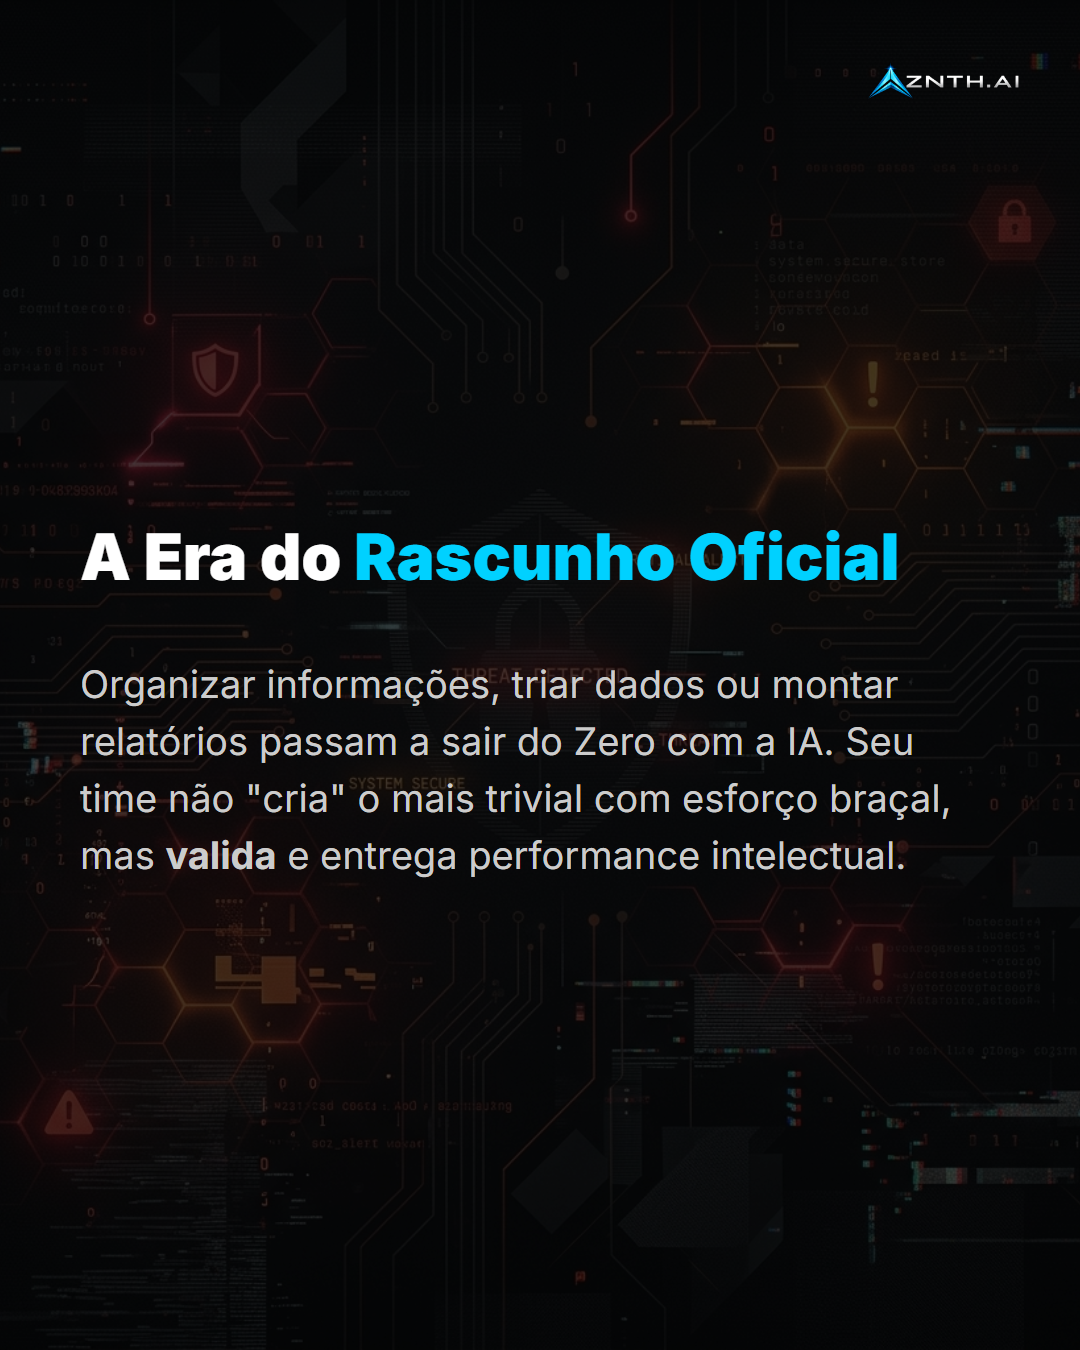
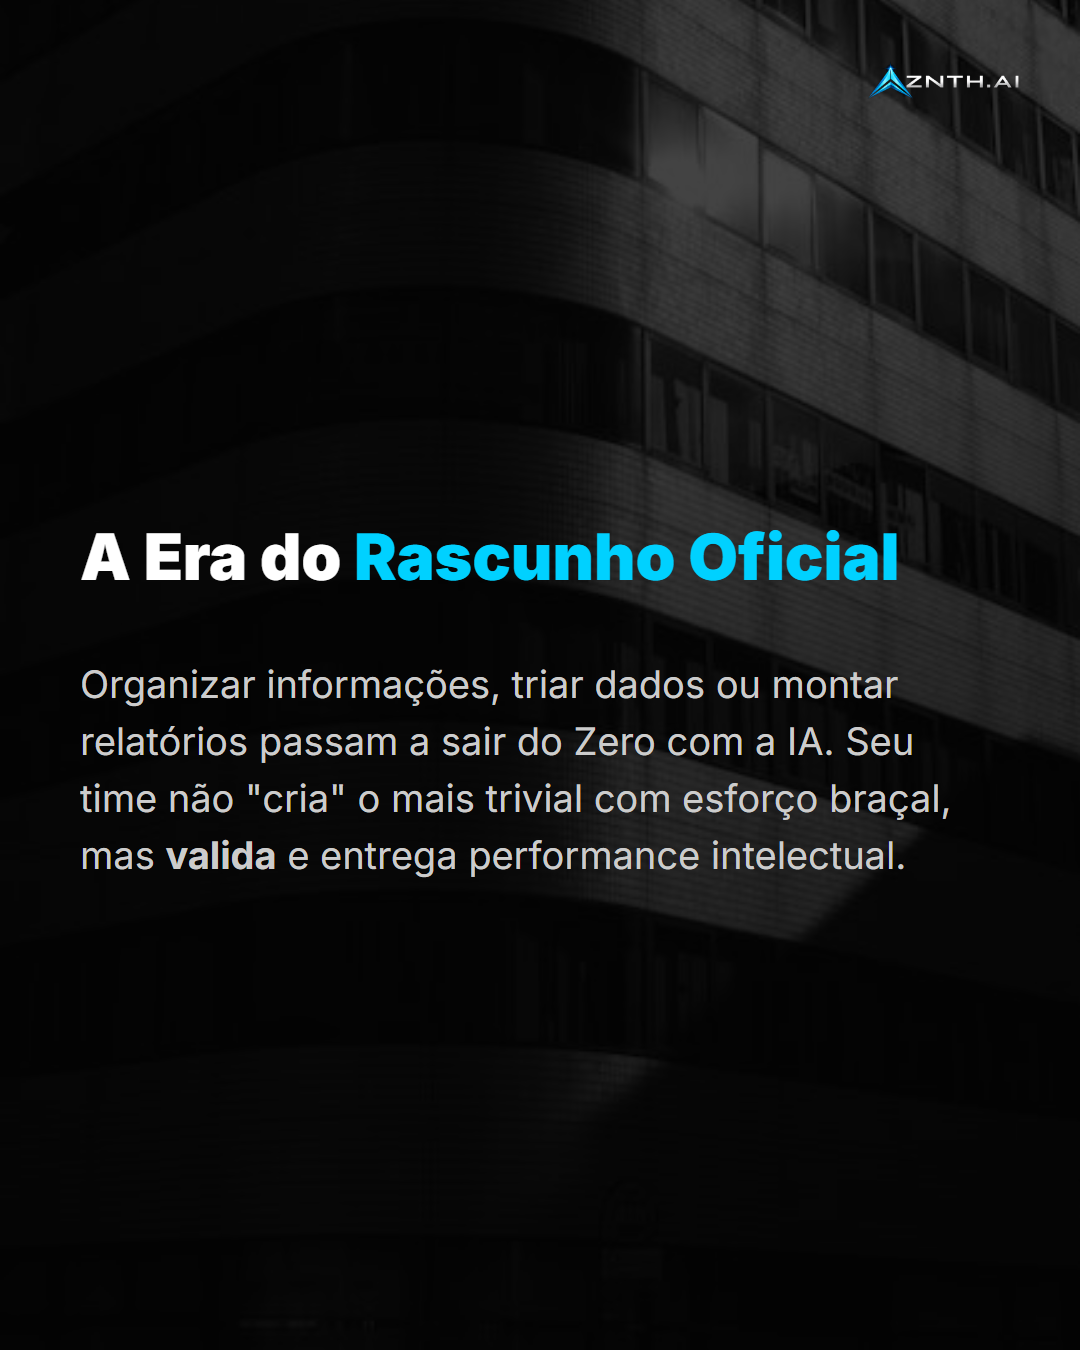
feat: substituir fundos com imagens da Pexels e atualizar PNGs

diff --git a/2026-04-20-exame/html/slide-02.html b/2026-04-20-exame/html/slide-02.html
@@ -11,7 +11,7 @@
         }
         .background {
             position: absolute; top: 0; left: 0; width: 100%; height: 100%;
-            background-image: url('../images/bg-data.png'); background-size: cover; background-position: center; opacity: 0.25; z-index: 1;
+            background-image: url('../images/pexels_bg_02.jpg'); background-size: cover; background-position: center; opacity: 0.25; z-index: 1;
         }
         .logo { position: absolute; top: 60px; right: 60px; height: 40px; z-index: 10; }
         h2 { font-size: 64px; font-weight: 900; line-height: 1.2; margin-bottom: 60px; color: #ffffff; z-index: 5; position: relative; }

diff --git a/2026-04-20-exame/html/slide-05.html b/2026-04-20-exame/html/slide-05.html
@@ -11,7 +11,7 @@
         }
         .background {
             position: absolute; top: 0; left: 0; width: 100%; height: 100%;
-            background-image: url('../images/bg-data.png'); background-size: cover; background-position: center; opacity: 0.25; z-index: 1;
+            background-image: url('../images/pexels_bg_05.jpg'); background-size: cover; background-position: center; opacity: 0.25; z-index: 1;
         }
         .logo { position: absolute; top: 60px; right: 60px; height: 40px; z-index: 10; }
         h2 { font-size: 64px; font-weight: 900; line-height: 1.2; margin-bottom: 60px; color: #ffffff; z-index: 5; position: relative; }

diff --git a/2026-04-20-exame/html/slide-03.html b/2026-04-20-exame/html/slide-03.html
@@ -11,7 +11,7 @@
         }
         .background {
             position: absolute; top: 0; left: 0; width: 100%; height: 100%;
-            background-image: url('../images/bg-znth.png'); background-size: cover; background-position: center; opacity: 0.3; z-index: 1;
+            background-image: url('../images/pexels_bg_03.jpg'); background-size: cover; background-position: center; opacity: 0.3; z-index: 1;
         }
         .logo { position: absolute; top: 60px; right: 60px; height: 40px; z-index: 10; }
         h2 { font-size: 64px; font-weight: 900; line-height: 1.2; margin-bottom: 60px; color: #ffffff; z-index: 5; position: relative; }

diff --git a/2026-04-20-exame/html/slide-04.html b/2026-04-20-exame/html/slide-04.html
@@ -11,7 +11,7 @@
         }
         .background {
             position: absolute; top: 0; left: 0; width: 100%; height: 100%;
-            background-image: url('../images/bg-06.png'); background-size: cover; background-position: center; opacity: 0.25; z-index: 1;
+            background-image: url('../images/pexels_bg_04.jpg'); background-size: cover; background-position: center; opacity: 0.25; z-index: 1;
         }
         .logo { position: absolute; top: 60px; right: 60px; height: 40px; z-index: 10; }
         h2 { font-size: 64px; font-weight: 900; line-height: 1.2; margin-bottom: 60px; color: #ffffff; z-index: 5; position: relative; }

diff --git a/2026-04-20-exame/html/slide-01.html b/2026-04-20-exame/html/slide-01.html
@@ -11,7 +11,7 @@
         }
         .background {
             position: absolute; top: 0; left: 0; width: 100%; height: 100%;
-            background-image: url('../images/bg-01.png'); background-size: cover; background-position: center; opacity: 0.3; z-index: 1;
+            background-image: url('../images/pexels_bg_01.jpg'); background-size: cover; background-position: center; opacity: 0.3; z-index: 1;
         }
         .logo { position: absolute; top: 60px; right: 60px; height: 40px; z-index: 10; }
         h2 { font-size: 64px; font-weight: 900; line-height: 1.2; margin-bottom: 60px; color: #ffffff; z-index: 5; position: relative; }

diff --git a/2026-04-20-exame/html/slide-06.html b/2026-04-20-exame/html/slide-06.html
@@ -11,7 +11,7 @@
         }
         .background {
             position: absolute; top: 0; left: 0; width: 100%; height: 100%;
-            background-image: url('../images/bg-01.png'); background-size: cover; background-position: center; opacity: 0.2; z-index: 1;
+            background-image: url('../images/pexels_bg_06.jpg'); background-size: cover; background-position: center; opacity: 0.2; z-index: 1;
         }
         .logo { position: absolute; top: 60px; right: 60px; height: 40px; z-index: 10; }
         h2 { font-size: 64px; font-weight: 900; line-height: 1.2; margin-bottom: 60px; color: #ffffff; z-index: 5; position: relative; }
